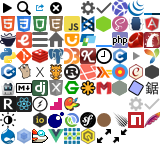
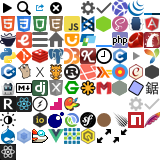
Add React Native documentation

diff --git a/assets/stylesheets/global/_icons.scss b/assets/stylesheets/global/_icons.scss
@@ -4,7 +4,7 @@
   width: 1rem;
   height: 1rem;
   background-image: image-url('icons.png');
-  background-size: 10rem 9rem;
+  background-size: 10rem 10rem;
 }
 
 @media (-webkit-min-device-pixel-ratio: 1.5), (min-resolution: 144dpi) {
@@ -111,3 +111,4 @@
 %icon-contract              { background-position: -7rem -8rem; }
 %icon-expand-white          { background-position: -8rem -8rem; }
 %icon-contract-white        { background-position: -9rem -8rem; }
+._icon-react_native:before  { background-position: 0 -9rem; }

diff --git a/assets/stylesheets/pages/_react.scss b/assets/stylesheets/pages/_react.scss
@@ -1,7 +1,7 @@
 ._react {
   > h2 { @extend %block-heading; }
   > h3 { @extend %block-label, %label-blue; }
-  > h4 { font-size: 1em; }
+  > h4 { @extend %block-label; }
 
   code { @extend %label; }
   blockquote { @extend %note; }

diff --git a/lib/docs/filters/react/clean_html.rb b/lib/docs/filters/react/clean_html.rb
@@ -5,10 +5,10 @@ module Docs
         @doc = at_css('.inner-content')
 
         if root_page?
-          at_css('h1').content = 'React Documentation'
+          at_css('h1').content = context[:root_title]
         end
 
-        css('.docs-prevnext', '.hash-link', '.edit-page-link').remove
+        css('.docs-prevnext', '.hash-link', '.edit-page-link', '.edit-github').remove
 
         css('a.anchor').each do |node|
           node.parent['id'] = node['name']
@@ -20,8 +20,21 @@ module Docs
           node.content = node.content
         end
 
+        css('.prism').each do |node|
+          node.name = 'pre'
+          node['data-lang'] = node['class'][/(?<=language\-)(\w+)/]
+          node.content = node.content
+        end
+
         css('blockquote > p:first-child').each do |node|
           node.remove if node.content.strip == 'Note:'
+        end
+
+        css('h3#props', 'h3#methods').each { |node| node.name = 'h2' }
+        css('h4.propTitle').each { |node| node.name = 'h3' }
+
+        css('> div > div', '> div', 'div > span', '.props', '.prop').each do |node|
+          node.before(node.children).remove
         end
 
         doc

diff --git a/lib/docs/scrapers/react_native.rb b/lib/docs/scrapers/react_native.rb
@@ -1,0 +1,26 @@
+module Docs
+  class ReactNative < React
+    self.name = 'React Native'
+    self.slug = 'react_native'
+    self.type = 'react'
+    self.version = '0.8.0'
+    self.base_url = 'https://facebook.github.io/react-native/docs/'
+    self.root_path = 'getting-started.html'
+    self.links = {
+      home: 'https://facebook.github.io/react-native/',
+      code: 'https://github.com/facebook/react-native'
+    }
+
+    options[:root_title] = 'React Native Documentation'
+    options[:only_patterns] = nil
+    options[:skip] = %w(
+      videos.html
+      transforms.html
+      troubleshooting.html)
+
+    options[:attribution] = <<-HTML
+      &copy; 2015 Facebook Inc.<br>
+      Licensed under the Creative Commons Attribution 4.0 International Public License.
+    HTML
+  end
+end

diff --git a/lib/docs/filters/react/entries.rb b/lib/docs/filters/react/entries.rb
@@ -7,6 +7,12 @@ module Docs
         docs/component-specs
       )
 
+      REPLACE_TYPES = {
+        'Quick Start' => 'Guides',
+        'apis' => 'APIs',
+        'components' => 'Components'
+      }
+
       def get_name
         at_css('h1').child.content
       end
@@ -14,7 +20,8 @@ module Docs
       def get_type
         link = at_css('.nav-docs-section .active')
         section = link.ancestors('.nav-docs-section').first
-        section.at_css('h3').content
+        type = section.at_css('h3').content.strip
+        REPLACE_TYPES[type] || type
       end
 
       def additional_entries

diff --git a/lib/docs/scrapers/react.rb b/lib/docs/scrapers/react.rb
@@ -12,6 +12,7 @@ module Docs
 
     html_filters.push 'react/entries', 'react/clean_html'
 
+    options[:root_title] = 'React Documentation'
     options[:container] = '.documentationContent'
     options[:only_patterns] = [/\Adocs\//, /\Atips\//]
     options[:skip] = %w(
